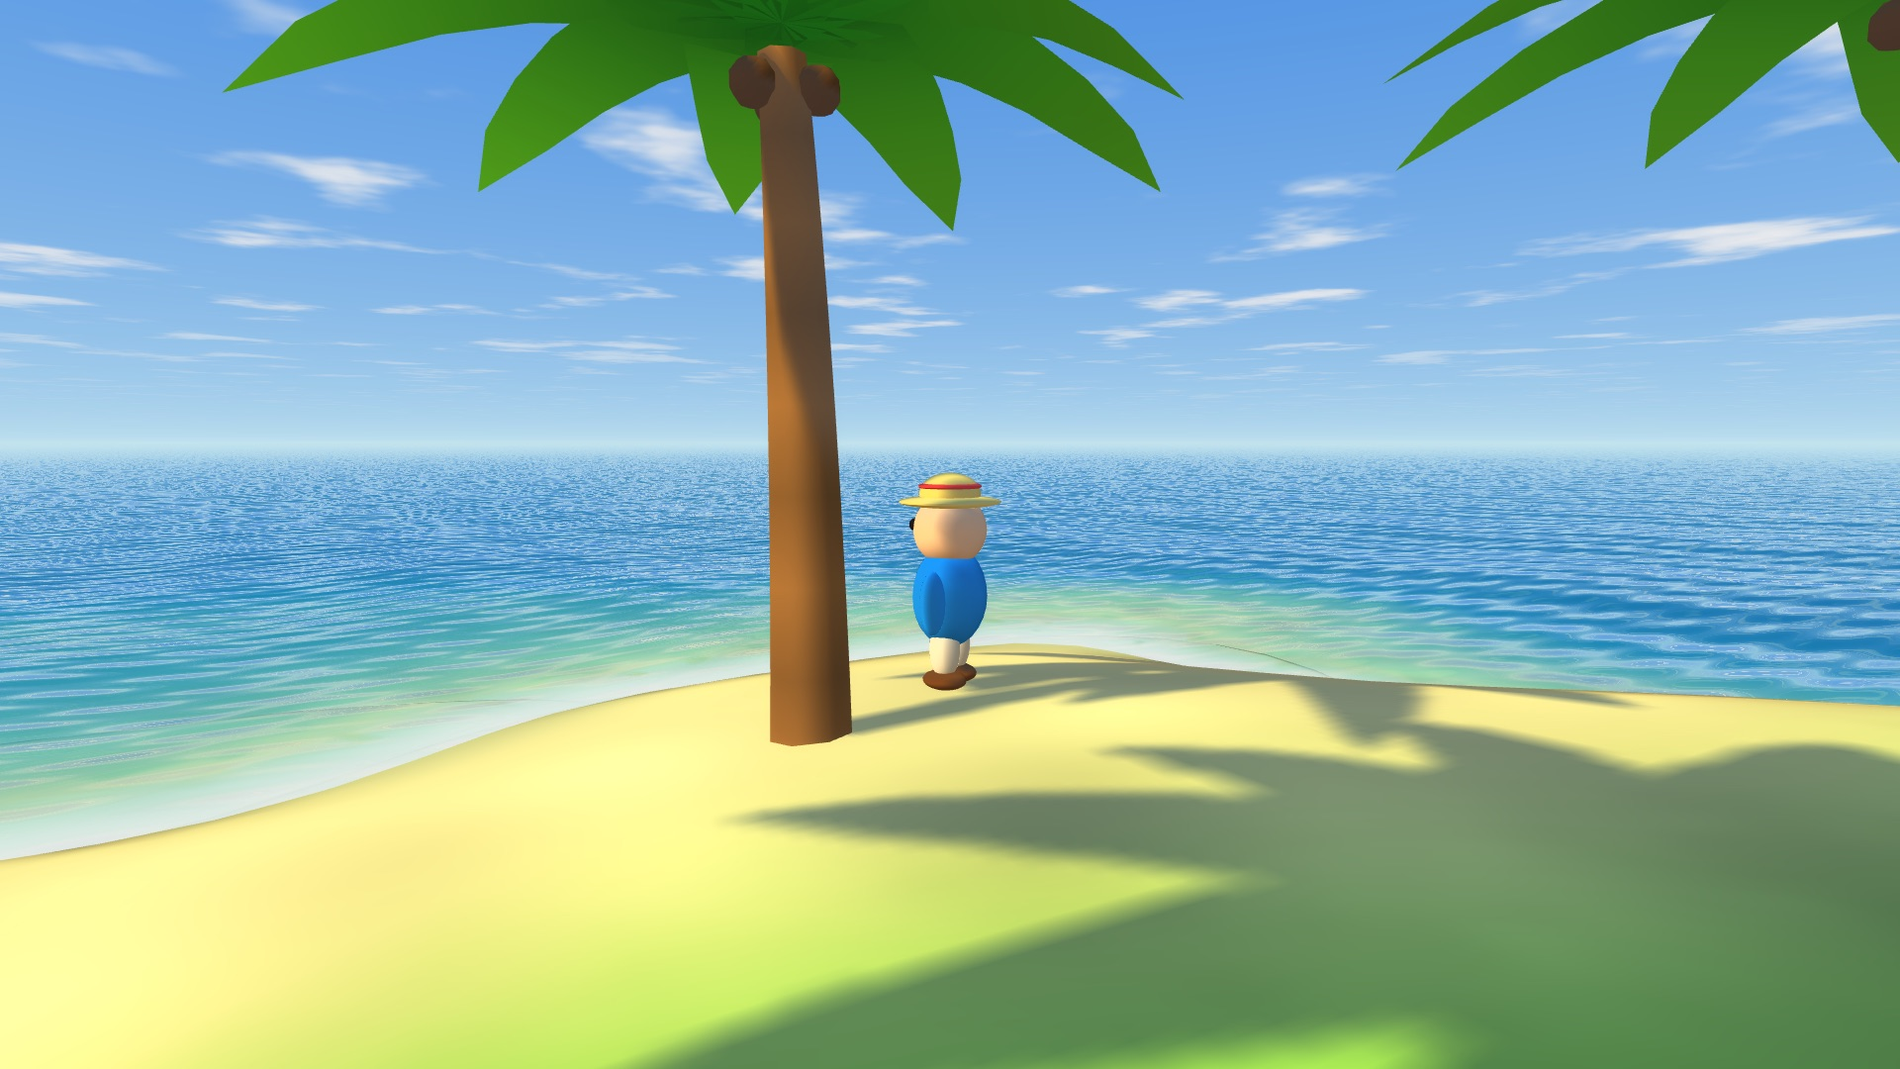
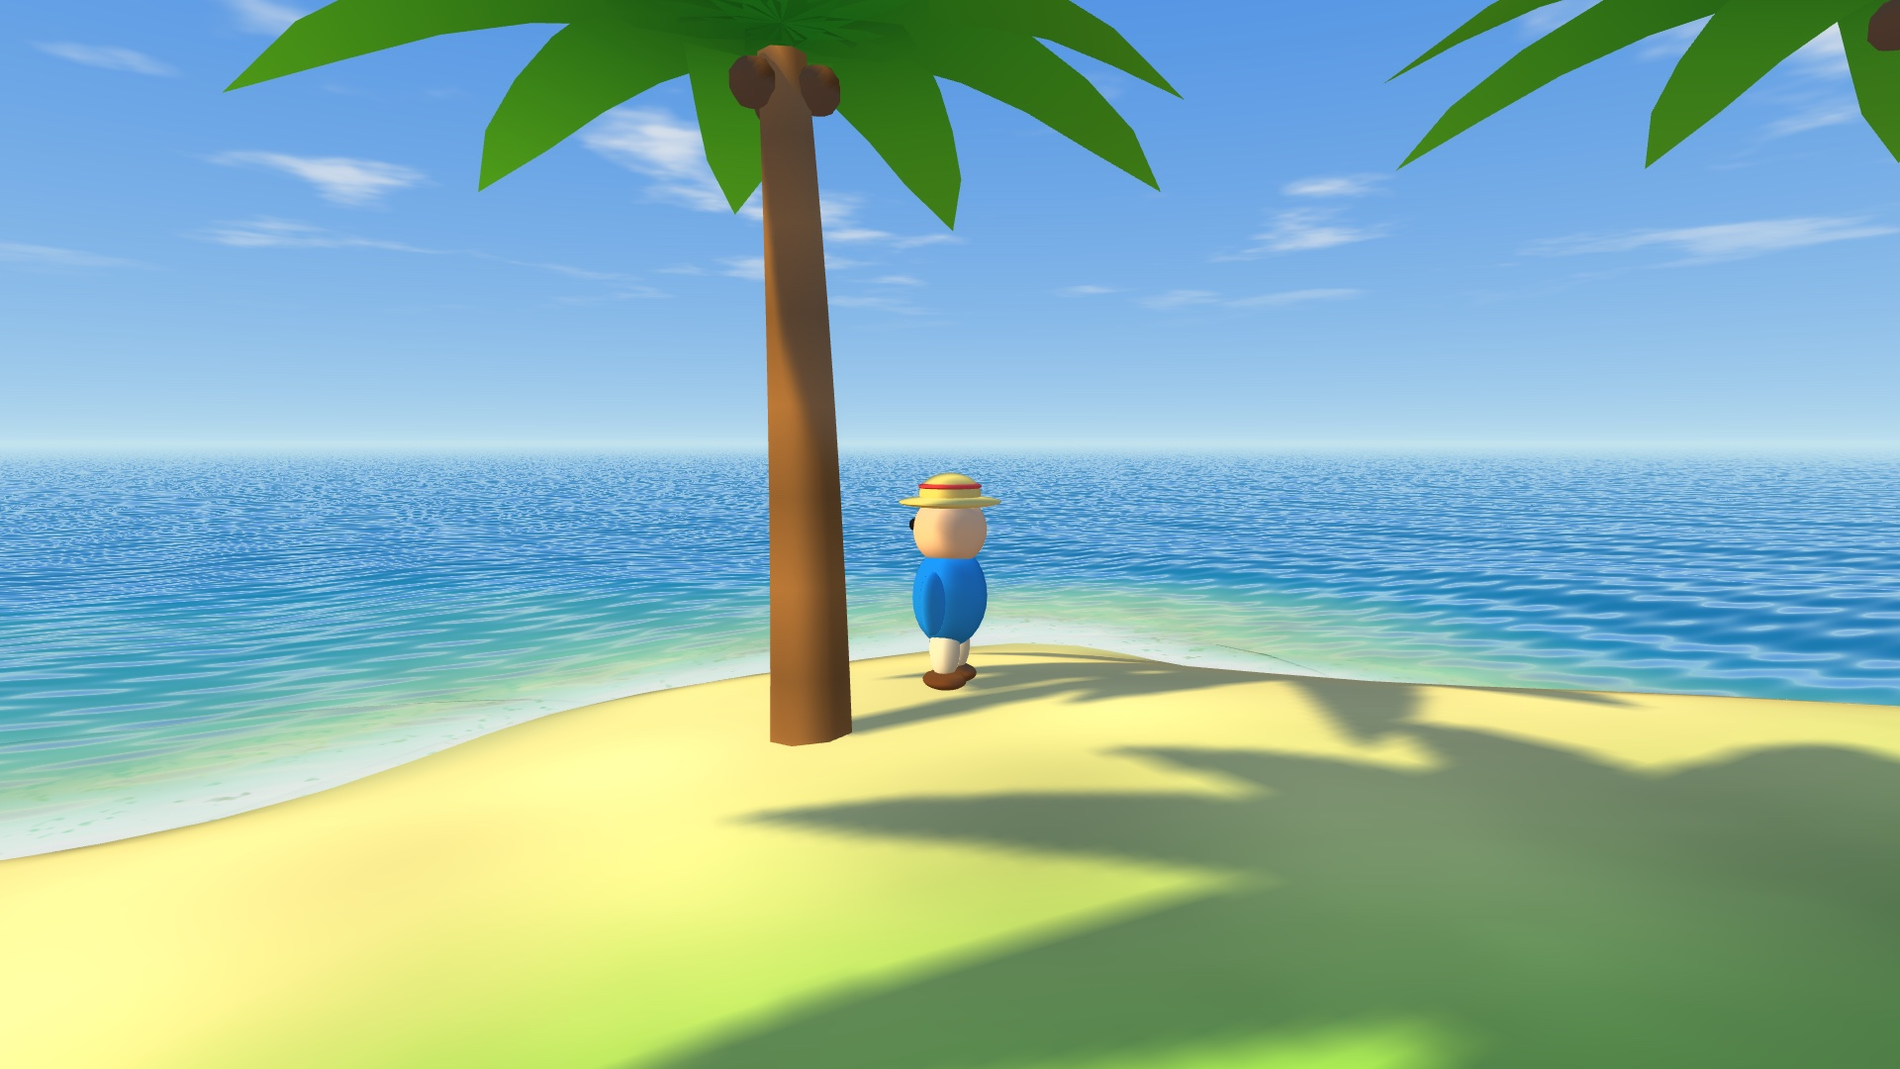
Fix the water entry splash, foam wake, and buoyancy splash spam
The splash test was fallSpeed < -3.5, which can only fire on a real
jump-drop: wading off a beach is a continuous seabed, so the terrain
snap zeroes vel.y every frame. It now takes max(-fallSpeed, speed) and
has a cooldown.

The wake read as bubbles because a soft round sprite does. Foam is now
a squashed ellipse faded at grazing angles and broken up with world
space noise in fs_particle, and it spawns denser so it overlaps.

Buoyancy used the raw displacement from the swim line, so landing a
metre deep accelerated at ~150 m/s^2 and threw the player clear; every
bob back in re-triggered the splash, which painted the sea white.
Clamped to +/-0.9 m with stronger damping.

Two water shader fixes found along the way: depth is measured from mean
sea level rather than the displaced surface (the shallow band followed
the wave crests), and the shoreline breakup noise is finer (at 2.2/m it
read as cloud-shaped smears on the shallow banks). Clouds are left out
of the water reflection and fade with distance in the sky.

diff --git a/Sources/OpenWorld/Shaders.swift b/Sources/OpenWorld/Shaders.swift
@@ -98,7 +98,7 @@ enum Shaders {
         return smoothstep(0.50, 0.68, cloudField(wp.xz + sunDir.xz * t, time));
     }
 
-    float3 skyColor(float3 d, float3 sunDir, float3 sunCol, float3 cam, float time) {
+    float3 skyColor(float3 d, float3 sunDir, float3 sunCol, float3 cam, float time, float clouds) {
         float h = saturate(d.y);
         float low = 1.0 - saturate(sunDir.y * 2.2);
         float3 c = mix(horizonColor(sunDir), mix(ZENITH, float3(0.22, 0.30, 0.62), low * 0.5), pow(h, 0.55));
@@ -107,10 +107,13 @@ enum Shaders {
         if (d.y > 0.01) {
             float t = (CLOUD_H - cam.y) / max(d.y, 0.02);
             float n = cloudField(cam.xz + d.xz * t, time);
-            float cl = smoothstep(0.52, 0.72, n);
+            // A grazing ray meets the cloud plane thousands of units away, where
+            // one noise cell is sub-pixel: without this the water's reflection of
+            // the sky stretched clouds into ragged white shards.
+            float cl = smoothstep(0.52, 0.72, n) * (1.0 - smoothstep(700.0, 2400.0, t));
             float fade = smoothstep(0.0, 0.16, d.y);
             float3 cc = mix(float3(0.80, 0.87, 0.97), float3(1.0), smoothstep(0.5, 0.92, n));
-            c = mix(c, cc, cl * fade * 0.95);
+            c = mix(c, cc, cl * fade * 0.95 * clouds);
         }
         return c;
     }
@@ -145,7 +148,7 @@ enum Shaders {
     fragment float4 fs_sky(SkyOut in [[stage_in]], constant Frame& f [[buffer(1)]]) {
         float4 w = f.invViewProj * float4(in.ndc, 1.0, 1.0);
         float3 dir = normalize(w.xyz / w.w - f.cam.xyz);
-        float3 c = skyColor(dir, normalize(f.sun.xyz), f.sunCol.rgb, f.cam.xyz, f.cam.w);
+        float3 c = skyColor(dir, normalize(f.sun.xyz), f.sunCol.rgb, f.cam.xyz, f.cam.w, 1.0);
         // Submerged, the water surface geometry covers everything above the
         // horizon, so this only shows where a downward ray misses the terrain:
         // the open water below.
@@ -389,10 +392,13 @@ enum Shaders {
         // shifts the shoreline and the shallow shelf instead of the whole
         // screen, which is what a second scene pass would cost us.
         float2 uv0 = (in.wp.xz + EXTENT) / (2.0 * EXTENT);
-        float d0 = max(in.wp.y - hmap.sample(s, uv0).r, 0.0);
+        float d0 = max(-hmap.sample(s, uv0).r, 0.0);
         float2 uv = (in.wp.xz + N.xz * (0.35 + d0 * 0.55) + EXTENT) / (2.0 * EXTENT);
         float ground = hmap.sample(s, uv).r;
-        float depth = max(in.wp.y - ground, 0.0);
+        // Depth from the mean sea level, not the displaced surface: measuring
+        // from `wp.y` made the shallow band and its foam follow the wave crests
+        // and smear into vertical streaks.
+        float depth = max(-ground, 0.0);
 
         float shallow = exp(-depth * 0.30);
         float3 deepC = float3(0.02, 0.27, 0.62);
@@ -401,7 +407,9 @@ enum Shaders {
 
         float3 R = reflect(-V, N);
         R.y = abs(R.y);
-        float3 refl = skyColor(R, L, f.sunCol.rgb, f.cam.xyz, t);
+        // Clouds are left out of the reflection: the wave normals jitter the
+        // reflected ray enough to turn their high-contrast edges into shards.
+        float3 refl = skyColor(R, L, f.sunCol.rgb, f.cam.xyz, t, 0.0);
         float fres = 0.05 + 0.95 * pow(1.0 - saturate(dot(N, V)), 5.0);
         float3 col = mix(base, refl, clamp(fres * 1.15, 0.0, 0.85));
 
@@ -417,8 +425,12 @@ enum Shaders {
         // turned the shallows into a hard cut with a dark seam at the sand.
         float wob = 0.25 * sin(t * 1.3 + in.wp.x * 0.15) + 0.1 * sin(t * 2.1);
         float fo = smoothstep(0.85 + wob, 0.0, depth);
-        float breakup = vnoise(in.wp.xz * 2.2 + float2(t * 0.25, 0.0));
-        fo *= smoothstep(0.25, 0.65, breakup + 0.55 * fo);
+        // Foam: a band at the waterline, broken into flecks. The breakup noise is
+        // deliberately fine — at 2.2/m it read as cloud-shaped smears sitting on
+        // the shallow banks rather than churned water.
+        float breakup = vnoise(in.wp.xz * 5.5 + float2(t * 0.25, 0.0)) * 0.6
+                      + vnoise(in.wp.xz * 13.0 - float2(0.0, t * 0.31)) * 0.4;
+        fo *= smoothstep(0.30, 0.70, breakup + 0.45 * fo);
         col = mix(col, float3(1.0), fo * 0.9);
 
         float alpha = saturate(0.20 + depth * 0.30);
@@ -432,7 +444,7 @@ enum Shaders {
             float3 toSurf = normalize(in.wp - f.cam.xyz);
             float3 surfN = normalize(float3(-slope.x * 2.2, 1.0, -slope.y * 2.2));
             float window = smoothstep(0.58, 0.78, saturate(dot(toSurf, surfN)));
-            float3 ceilCol = mix(skyColor(float3(0.0, 1.0, 0.0), L, f.sunCol.rgb, f.cam.xyz, t), float3(0.72, 0.95, 1.0), 0.35);
+            float3 ceilCol = mix(skyColor(float3(0.0, 1.0, 0.0), L, f.sunCol.rgb, f.cam.xyz, t, 1.0), float3(0.72, 0.95, 1.0), 0.35);
             float3 under = mix(UWDEEP * 1.6, ceilCol, window);
             col = mix(col, under, uw);
             alpha = mix(alpha, 1.0, uw);
@@ -446,6 +458,8 @@ enum Shaders {
         float4 pos [[position]];
         float4 col;
         float2 uv;
+        float3 wp;
+        float kind;
     };
 
     vertex POut vs_particle(uint vid [[vertex_id]],
@@ -456,17 +470,23 @@ enum Shaders {
         o.pos = f.viewProj * float4(v.pos.xyz, 1.0);
         o.col = v.col;
         o.uv = v.nrm.xy;
+        o.wp = v.pos.xyz;
+        o.kind = v.nrm.z;
         return o;
     }
 
     fragment float4 fs_particle(POut in [[stage_in]]) {
         float d = length(in.uv);
         if (d > 1.0) { discard_fragment(); }
-        // Soft round sprite: foam and droplets both read better without a hard
-        // square edge, and there is no texture atlas to sample.
-        float a = in.col.a * smoothstep(1.0, 0.15, d);
-        float3 c = in.col.rgb * (1.0 + 0.30 * (1.0 - d));
-        return float4(c, a * a);
+        float a = in.col.a * smoothstep(1.0, 0.45, d);
+        if (in.kind > 0.5) {
+            // A soft disc reads as a bubble no matter how it is tinted, so foam
+            // is broken up with noise on the world position instead.
+            float n = vnoise(in.wp.xz * 5.0) * 0.55 + vnoise(in.wp.xz * 12.0 + 3.1) * 0.45;
+            a *= smoothstep(0.36, 0.70, n + 0.40 * smoothstep(0.65, 0.0, d));
+        }
+        float3 c = in.col.rgb * (1.0 + 0.18 * (1.0 - d));
+        return float4(c, a);
     }
 
     // ---- Bloom + tone mapping ------------------------------------------------

diff --git a/Sources/OpenWorld/Particles.swift b/Sources/OpenWorld/Particles.swift
@@ -39,7 +39,7 @@ final class ParticleSystem {
             add(Particle(pos: p + V3(0, 0.1, 0),
                          vel: V3(cos(a) * r * 2.2 * s, Float.random(in: 2.2 ... 5.0) * s, sin(a) * r * 2.2 * s),
                          life: Float.random(in: 0.45 ... 0.9), maxLife: 0.9,
-                         size: Float.random(in: 0.10 ... 0.26) * s,
+                         size: Float.random(in: 0.06 ... 0.12) * s,
                          tint: V3(0.94, 0.98, 1.0), gravity: 17, drag: 1.6))
         }
         // A flat foam collar right where it went in.
@@ -49,7 +49,7 @@ final class ParticleSystem {
             add(Particle(pos: p + V3(cos(a) * r, 0.04, sin(a) * r),
                          vel: V3(cos(a) * 0.9, 0, sin(a) * 0.9),
                          life: Float.random(in: 0.6 ... 1.1), maxLife: 1.1,
-                         size: Float.random(in: 0.14 ... 0.26) * s,
+                         size: Float.random(in: 0.10 ... 0.22) * s,
                          tint: V3(0.92, 0.98, 1.0), gravity: 0, drag: 1.1))
         }
     }
@@ -57,28 +57,29 @@ final class ParticleSystem {
     func update(dt: Float, swimming: Bool, speed: Float, feet: V3, wading: Bool) {
         wakeTimer -= dt
         wadeTimer -= dt
-        // Foam trail behind a swimmer.
+        // Foam trail behind a swimmer. It has to overlap into a continuous wash:
+        // sparse round sprites read as bubbles rather than churned water.
         if swimming && speed > 1.4 && wakeTimer <= 0 {
-            wakeTimer = 0.055
-            for _ in 0..<2 {
+            wakeTimer = 0.035
+            for _ in 0..<5 {
                 let a = Float.random(in: 0 ..< 2 * Float.pi)
-                let r = Float.random(in: 0.35 ... 0.75)
+                let r = Float.random(in: 0.20 ... 0.85)
                 add(Particle(pos: V3(feet.x + cos(a) * r, 0.05, feet.z + sin(a) * r),
-                             vel: V3(cos(a) * 1.1, 0, sin(a) * 1.1),
-                             life: Float.random(in: 0.5 ... 0.95), maxLife: 0.95,
-                             size: Float.random(in: 0.12 ... 0.24), tint: V3(0.92, 0.98, 1.0),
+                             vel: V3(cos(a) * 0.55, 0, sin(a) * 0.55),
+                             life: Float.random(in: 0.40 ... 0.78), maxLife: 0.78,
+                             size: Float.random(in: 0.10 ... 0.20), tint: V3(0.95, 0.99, 1.0),
                              gravity: 0, drag: 1.4))
             }
         }
         // Kick-up while wading through the shallows.
-        if wading && speed > 2.5 && wadeTimer <= 0 {
-            wadeTimer = 0.16
-            for _ in 0..<3 {
+        if wading && speed > 2.0 && wadeTimer <= 0 {
+            wadeTimer = 0.11
+            for _ in 0..<4 {
                 let a = Float.random(in: 0 ..< 2 * Float.pi)
                 add(Particle(pos: V3(feet.x, feet.y + 0.05, feet.z),
-                             vel: V3(cos(a) * 1.0, Float.random(in: 1.4 ... 3.0), sin(a) * 1.0),
-                             life: Float.random(in: 0.3 ... 0.6), maxLife: 0.6,
-                             size: Float.random(in: 0.07 ... 0.16), tint: V3(0.95, 0.99, 1.0),
+                             vel: V3(cos(a) * 1.3, Float.random(in: 1.8 ... 3.6), sin(a) * 1.3),
+                             life: Float.random(in: 0.35 ... 0.7), maxLife: 0.7,
+                             size: Float.random(in: 0.10 ... 0.20), tint: V3(0.94, 0.99, 1.0),
                              gravity: 16, drag: 1.4))
             }
         }

diff --git a/Sources/OpenWorld/Game.swift b/Sources/OpenWorld/Game.swift
@@ -49,6 +49,7 @@ final class Game {
     var camPos = V3.zero
     var camTarget = V3.zero
     private var curDist: Float = 9
+    private var splashCooldown: Float = 0
     private var camInitialised = false
     private var prevPadJump = false
 
@@ -137,7 +138,11 @@ final class Game {
         let wasSwimming = swimming
         let fallSpeed = vel.y
         if deep && pos.y < Game.swimY + 0.35 {
-            vel.y += (Game.swimY - pos.y) * 50 * dt - vel.y * 4 * dt + sin(time * 2) * 0.4 * dt
+            // Spring towards the swim line, but clamp the displacement: landing
+            // deep used to fling the player out of the water, and every bob back
+            // in re-triggered the splash.
+            let lift = clampf(Game.swimY - pos.y, -0.9, 0.9)
+            vel.y += (lift * 60 - vel.y * 9) * dt + sin(time * 2) * 0.4 * dt
         } else {
             vel.y -= 30 * dt
         }
@@ -167,11 +172,17 @@ final class Game {
         }
         walkPhase += speed * dt * 2.6
 
-        // Water spray. Breaking the surface throws a burst; swimming and wading
-        // leave foam behind.
-        if swimming && !wasSwimming && fallSpeed < -3.5 {
-            particles.splash(at: V3(pos.x, 0, pos.z), strength: min(2.4, -fallSpeed / 5))
+        // Water spray. Wading off the beach is a walk, not a drop: the terrain
+        // snap zeroes `vel.y` every frame, so the horizontal speed is what
+        // carries the impact there.
+        if swimming && !wasSwimming {
+            let power = max(-fallSpeed, speed * 0.6)
+            if power > 1.8 && splashCooldown <= 0 {
+                splashCooldown = 0.7
+                particles.splash(at: V3(pos.x, 0, pos.z), strength: min(2.4, 0.55 + power / 5))
+            }
         }
+        splashCooldown -= dt
         let wading = !swimming && onGround && g < -0.1
         particles.update(dt: dt, swimming: swimming, speed: speed,
                          feet: V3(pos.x, max(pos.y, 0), pos.z), wading: wading)

diff --git a/Sources/OpenWorld/Renderer.swift b/Sources/OpenWorld/Renderer.swift
@@ -505,13 +505,20 @@ final class Renderer: NSObject, MTKViewDelegate {
         for p in parts {
             // Fade out over the lifetime; foam spreads as it goes, droplets shrink.
             let k = p.life / p.maxLife
-            let fade = clampf(k * 4, 0, 1) * k * 0.8
-            let r = p.size * (p.gravity == 0 ? 1.7 - 0.6 * k : 0.55 + 0.7 * k)
+            var fade = clampf(k * 5, 0, 1) * (0.30 + 0.70 * k)
+            // Foam lies on the water, so it is squashed into an ellipse and
+            // faded out at grazing angles. Flat quads were truer in plan view
+            // but collapsed into white scratches from eye level.
+            let foam = p.gravity == 0
+            if foam { fade *= sstep(0.10, 0.42, abs(dot(normalize(game.camPos - p.pos), V3(0, 1, 0)))) }
+            let r = p.size * (foam ? 1.7 - 0.6 * k : 0.55 + 0.7 * k)
+            let ax = right * r
+            let ay = up * r * (foam ? 0.60 : 1.0)
             let c = V4(p.tint * (0.9 + 0.12 * k), fade)
             let quad = [V2(-1, -1), V2(1, -1), V2(1, 1), V2(-1, -1), V2(1, 1), V2(-1, 1)]
             for uv in quad {
-                let off = (right * uv.x + up * uv.y) * r
-                particleVerts[n] = Vertex(pos: V4(p.pos + off, 1), nrm: V4(uv.x, uv.y, 0, 0), col: c)
+                let off = ax * uv.x + ay * uv.y
+                particleVerts[n] = Vertex(pos: V4(p.pos + off, 1), nrm: V4(uv.x, uv.y, foam ? 1 : 0, 0), col: c)
                 n += 1
             }
         }

diff --git a/Sources/OpenWorld/main.swift b/Sources/OpenWorld/main.swift
@@ -26,7 +26,8 @@ if let i = args.firstIndex(of: "--shot"), i + 1 < args.count {
         renderer.input.keys.insert(Key.w)
         renderer.input.keys.insert(Key.shift)
     }
-    for _ in 0..<90 { game.update(dt: 1.0 / 60, input: renderer.input) }
+    let frames = values("--frames", 1).map { Int($0[0]) } ?? 90
+    for _ in 0..<frames { game.update(dt: 1.0 / 60, input: renderer.input) }
     if let v = values("--time", 1) { game.time = v[0] }
     let size = values("--size", 2) ?? [1920, 1080]
     renderer.renderPNG(path: args[i + 1], width: Int(size[0]), height: Int(size[1]))

diff --git a/PROJECT_PLAN.md b/PROJECT_PLAN.md
@@ -63,7 +63,9 @@ Ordered roughly by value-to-effort. Each item should end with updated `shots/` r
   - **Refraction** is done in the depth lookup rather than the image: the seabed height is re-sampled at `wp.xz + N.xz * (0.35 + depth * 0.55)`, so the shoreline and the shallow shelf wobble with the waves. A real screen-space refraction would need a second scene pass, which the single-pass layout does not have.
   - `Particles.swift` is a CPU pool of ~600 sprites (`--walk` renders them headlessly). Foam is pinned to `y = 0.05` and spreads; droplets get gravity. The renderer rebuilds them as camera-facing quads each frame into one dynamic buffer, drawn after the water with depth test but no depth write.
   - The particle pass is skipped entirely while the camera is submerged: the water plane is opaque from below but writes no depth, so spray above the surface would otherwise punch through it.
-  - **Unverified:** the water-entry splash (needs a real fall into deep water) has only been exercised by reading the code.
+  - **Play-test fixes.** The entry splash never fired in practice: walking off a beach into deep water is a continuous seabed, so the terrain snap zeroes `vel.y` every frame and the `fallSpeed < -3.5` test could only ever see a real jump-drop. It now uses `max(-fallSpeed, speed * 0.6)` and has a cooldown. The wake also read as a trail of bubbles — a soft round sprite does that no matter the tint — so foam is squashed into an ellipse, faded at grazing angles, and broken up with world-space noise in `fs_particle`.
+  - **Buoyancy was launching the player out of the water.** The spring used the raw displacement, so landing even a metre deep accelerated at ~150 m/s^2, throwing the player clear; every bob back in re-triggered the splash, which is what painted the sea with white smears. The displacement is now clamped to +/-0.9 m with stronger damping.
+  - Two water shader knock-ons turned up while chasing that: depth was measured from the displaced surface (`wp.y`) rather than mean sea level, so the shallow band and its foam tracked the wave crests, and the fine breakup noise had to replace a 2.2/m one that read as cloud-shaped smears. Clouds are also excluded from the water reflection, where the wave normals shredded their edges.
 - [x] Sky: moving cloud shadows, optional time-of-day parameter (sun direction/color)
   - One cloud field (`cloudField`) at altitude 260. The sky intersects it along the view ray, so the clouds converge towards the horizon; `fs_main` projects the *same* field along the sun, so the shadow crossing the island belongs to the cloud overhead.
   - `--hour` swings the sun on an arc that passes exactly through the original hand-picked direction at 12:00. `Renderer.sun(hour:)` also returns the light colour (warming to `1.0, 0.52, 0.28` at the horizon), which now travels in the frame uniform (`f.sunCol`) instead of the old `SUNCOL` constant. The ambient dims and warms with `L.y`, and `horizonColor` warms the sky and the distance fog together.

diff --git a/AGENTS.md b/AGENTS.md
@@ -20,7 +20,7 @@ You cannot "see" the live window, so use the headless screenshot mode and look a
 
 ```bash
 .build/release/OpenWorld --shot shots/x.png \
-  [--pos X Z] [--yaw RAD] [--pitch RAD] [--dist D] [--time T] [--hour H] [--walk] [--size W H]
+  [--pos X Z] [--yaw RAD] [--pitch RAD] [--dist D] [--time T] [--hour H] [--walk] [--frames N] [--size W H]
 ```
 
 - Runs 90 simulation steps (so physics/camera settle), then renders a single 4x-MSAA frame offscreen. Default 1920x1080.
@@ -69,6 +69,8 @@ All code is in `Sources/OpenWorld/`:
 - **The sun comes from `Renderer.sun(hour:)`.** `--hour` moves it along an arc that passes exactly through the original key light at 12:00; the light colour rides in `Frame.sunCol` (there is no `SUNCOL` constant any more). Anything that tints sunlit surfaces must use `f.sunCol.rgb`, or a sunset will keep white highlights.
 - **Underwater is a shader state, not a separate pass.** Everything is driven by `uwAmount(camY)` (0 above, 1 below, crossfaded over `+0.30 .. -0.10`). `applyFog`, `fs_sky` and `fs_water` all branch on it, and everything decays to the single constant `UWFOG` — do not give the underwater fog a height-dependent target colour, or the distant seabed and distant surface converge to different colours and the far waterline draws a hard dark bar. `Game.updateCamera` only lets the camera drop below the surface while `swimming`; on land it is clamped above the waterline.
 - Water level is y = 0, seabed is -4, swimming rest height is `Game.swimY` (-0.8). Terrain mesh covers +/-120; players are clamped to radius 104.
+- **Water depth is measured from mean sea level**, `-ground`, not from the displaced surface `wp.y`. Using `wp.y` made the shallow band and the shoreline foam follow the wave crests and smear into vertical streaks.
+- **Particles.** Foam is `gravity == 0` and is pinned to `y = 0.05`; droplets get gravity. `nrm.z` carries the kind into `fs_particle`, which breaks up foam with world-space noise — a plain soft disc reads as a bubble no matter how it is tinted. Never splash on every `swimming` transition without the cooldown: buoyancy bobbing will fire it repeatedly.
 - **Building walls are baked with a contact shadow.** `MeshBuilder.groundedBox` emits each wall as three vertical bands (below ground, an AO ramp, plain wall) using `quad4` per-corner colours, because there is no SSAO. Plain `box` has no such ramp — use `groundedBox` for anything that stands on the terrain.
 - Water grid vertices are in a quadratic radial layout centred on the camera (fine near, coarse far). Vertex wave amplitude is deliberately small because vertices move with the camera; fine detail comes from fragment normals.
 - Colors are authored directly in display space (framebuffer is `bgra8Unorm`, no gamma handling). Keep that consistent.

diff --git a/README.md b/README.md
@@ -52,6 +52,7 @@ The game can render a single frame to a PNG without opening a window, which is h
 | `--time T` | Animation clock, for the water and clouds |
 | `--hour H` | Time of day, `0`–`24`; `12` (the default) is the original key light |
 | `--walk` | Hold forward for the simulated frames, so wakes and splashes can be checked |
+| `--frames N` | Number of simulation steps before the frame, default `90`; use it to catch a splash mid-air |
 | `--size W H` | Output resolution, default 1920x1080 |
 
 It runs 90 simulation steps first so physics and the camera settle, then renders one 4x-MSAA frame offscreen.
